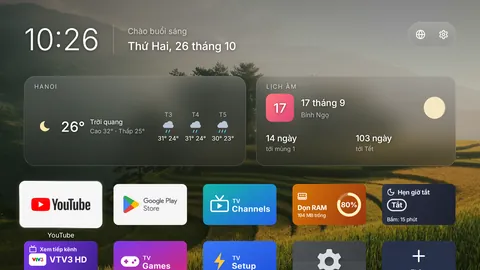
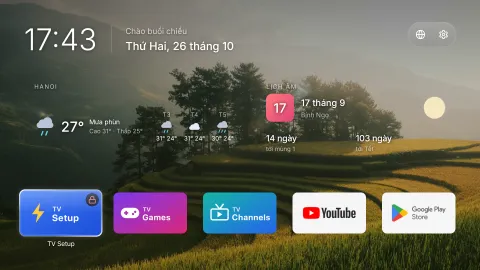
TV Home themes: new "See-through" (Bing, cards with no background); Photo frame, Rice terraces and the two video themes use the no-background look (wstyle kept for older TV Homes); previews redrawn
Claude-Session: https://claude.ai/code/session_01BipNE8eAGKYJpgQS8Nuwue

diff --git a/CHANGELOG.md b/CHANGELOG.md
@@ -4,6 +4,14 @@ Ba số phiên bản, mỗi số chỉ tăng khi phần của nó đổi: `VERSI
 
 Three version numbers, each bumped only when its own part changes: `VERSION` (the release and the computer app), `app/android/VERSION` (phone app), `app/tv/VERSION` (TV app). Releases with the install files are on the [Releases](https://github.com/HoangTran0410/tv-remote/releases) page; the apps check there for updates.
 
+## Unreleased
+
+**Tiếng Việt**
+- Theme có sẵn của TV Home (tải từ site, không cần cập nhật app): thêm theme "Trong veo" (ảnh Bing mỗi ngày, widget không nền); "Khung ảnh", "Ruộng bậc thang", "Hoàng hôn biển (video)", "Vịnh Hạ Long (video)" giờ dùng widget không nền.
+
+**English**
+- TV Home's ready-made themes (read from the site, no app update needed): new "See-through" theme (the day's Bing picture, cards with no background); "Photo frame", "Rice terraces", "Sunset beach (video)", "Ha Long Bay (video)" now use cards with no background.
+
 ## 0.26.3 - 2026-10-26
 
 Web 0.26.3 · app điện thoại 0.26.3 · app TV 0.26.3 · TV Home 0.13.1 · TV Channels 0.9.0 · TV Games 0.9.0
